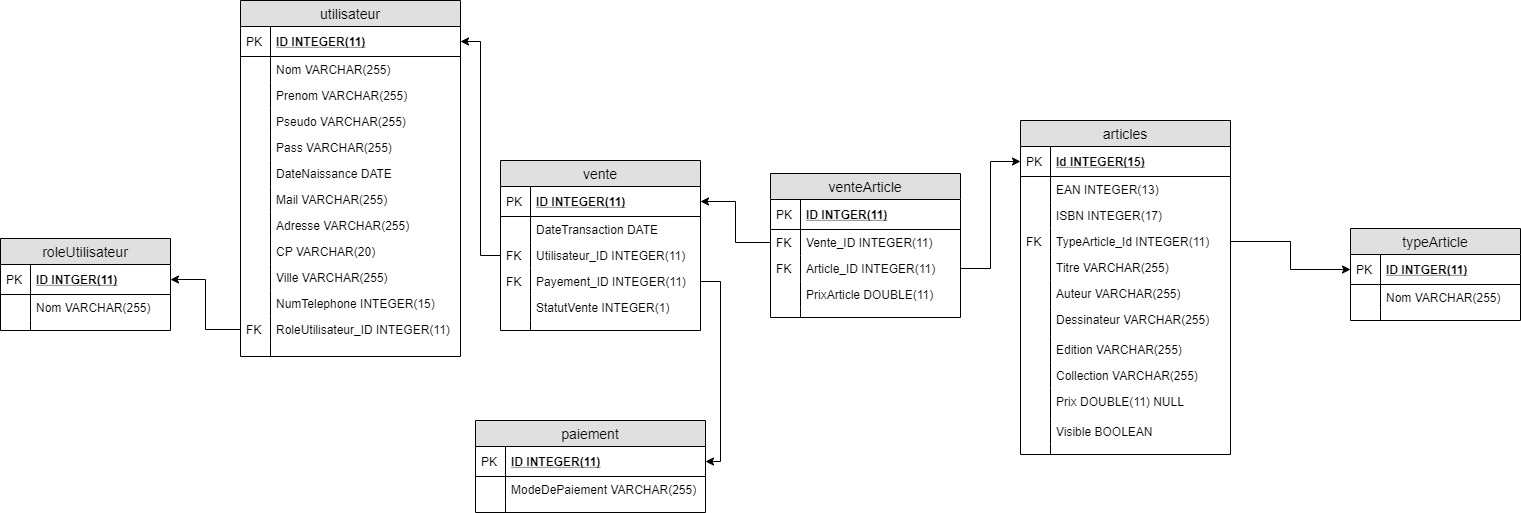
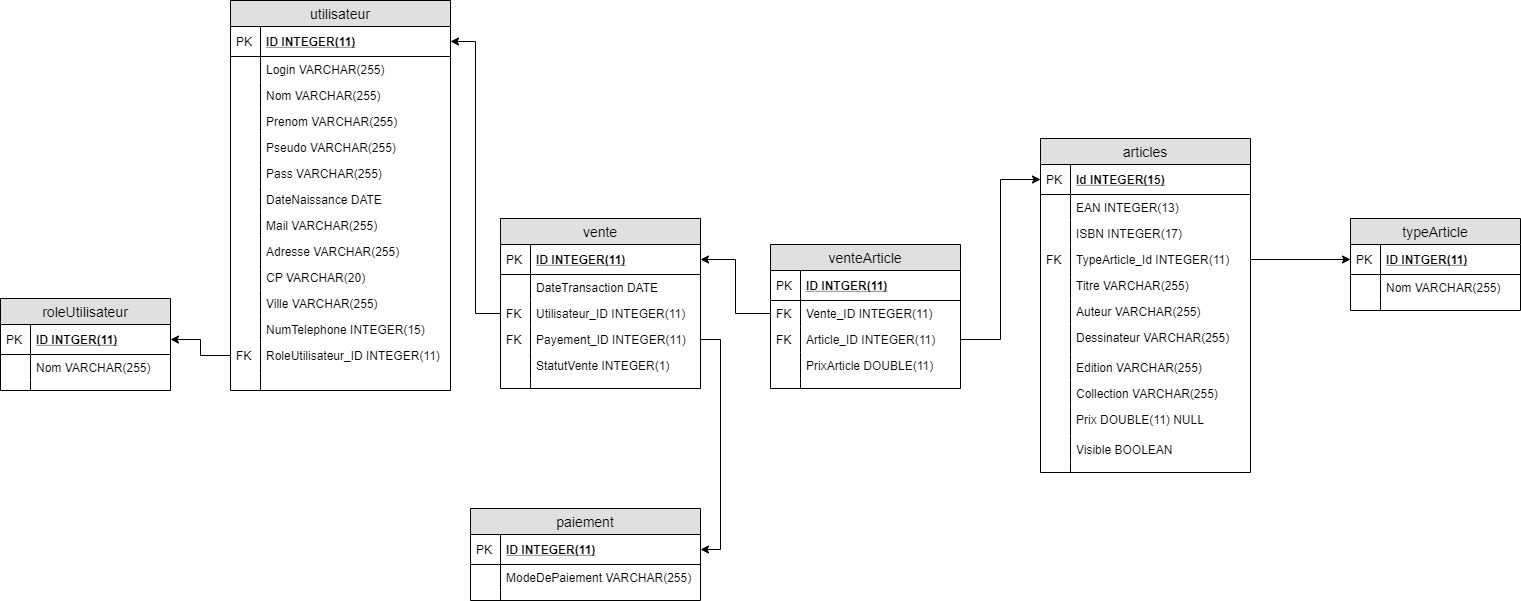
Modificaiton base de données + users ok.

diff --git a/public/css/overtemplate.css b/public/css/overtemplate.css
@@ -86,11 +86,15 @@ footer .mail{
 }
 
 .min-height{
-    min-height: 300px;
+    min-height: 600px;
 }
 
 .container{
     padding:20px 0px 20px 0px;
+}
+
+.padding-top100{
+    padding-top: 10%;
 }
 
 /*.navbar{

diff --git a/models/users.php b/models/users.php
@@ -2,7 +2,7 @@
 require_once 'models/db.php';
 
 function getUserById($id) {
-    $reponse = $db->prepare('SELECT * FROM utilisateur WHERE ID = :id');
+    $reponse = getDB()->prepare('SELECT * FROM utilisateur WHERE ID = :id');
     $reponse->execute([':id' => $id]);
     $user = $reponse->fetch();
     $reponse->closeCursor(); // Termine le traitement de la requête
@@ -10,7 +10,7 @@ function getUserById($id) {
 }
 
 function getUserByLogin($login) {
-    $reponse = $db->prepare('SELECT * FROM utilisateur WHERE Pseudo = :login');
+    $reponse = getDB()->prepare('SELECT * FROM utilisateur WHERE Login = :login');
     $reponse->execute([':login' => $login]);
     $user = $reponse->fetch();
     $reponse->closeCursor(); // Termine le traitement de la requête
@@ -20,7 +20,7 @@ function getUserByLogin($login) {
 function setUser($id, $login, $email, $password, $role) {
     $user = getUserById($id);
     //C'est ici qu'on va faire l'update de l'utilisateur.
-    $reponse = $db->prepare('UPDATE utilisateur SET Pseudo = :login, Mail = :email, Pass = :password, Role = :role WHERE ID = :id');
+    $reponse = getDB()->prepare('UPDATE utilisateur SET Login = :login, Mail = :email, Pass = :password, Role = :role WHERE ID = :id');
     if($password){
         $password = password_hash($password, PASSWORD_DEFAULT);
     }

diff --git a/controllers/connexion.php b/controllers/connexion.php
@@ -1,8 +1,9 @@
 <?php
+    $titre="Se connecter";
     include 'views/includes/head.php';
     include 'views/includes/nav.php';
     require 'models/users.php';
-    $titre="Connexion";
+    
     function isValidUser($login, $password) {
         $user = getUserByLogin($login);
         //Ici on va vérifier si le login/pass est bon
@@ -24,9 +25,11 @@
             if($user)
             {
                 //Authentification OK
-                $_SESSION['id'] = $user['ID'];
+                $_SESSION['id'] = $user['id'];
+                // $_SESSION['login'] = $user['login'];
+                // $_SESSION['role'] = $user['role'];
                 $_SESSION['message'] = "Bienvenue ".$user['Pseudo'];
-                header("Location: ".ROOT_PATH);
+                header("Location: ".ROOT_PATH."welcome");
                 exit();
             }
             else

diff --git a/views/connexion.php b/views/connexion.php
@@ -1,5 +1,5 @@
 <?php ob_start() ?>
-
+<div class="padding-top100"></div>
 <form action="<?=ROOT_PATH.'connexion'?>" method="POST">
     <div class="form-group">
         <label for="idlogin">Login</label>
@@ -7,12 +7,11 @@
     </div>
     <div class="form-group">
         <label for="idpassword">Mot de passe</label>
-        <input type="password" class="form-control" id="idpassword" name="Mot de passe">
+        <input type="password" class="form-control" id="idpassword" name="password">
     </div>
     <button type="submit" class="btn btn-primary">Connexion</button>
 </form>
 
 <?php
-    $titre = "Se connecter";
     $content = ob_get_clean();
 ?>
